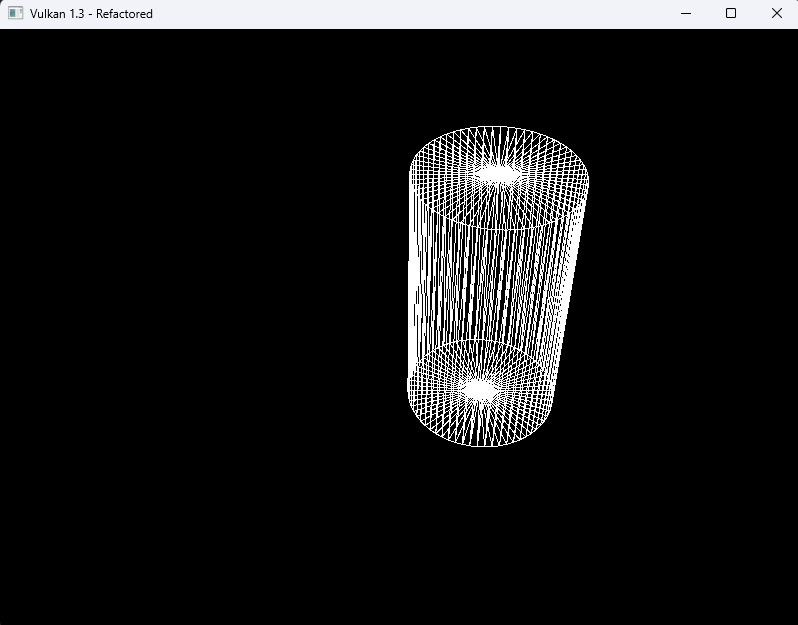
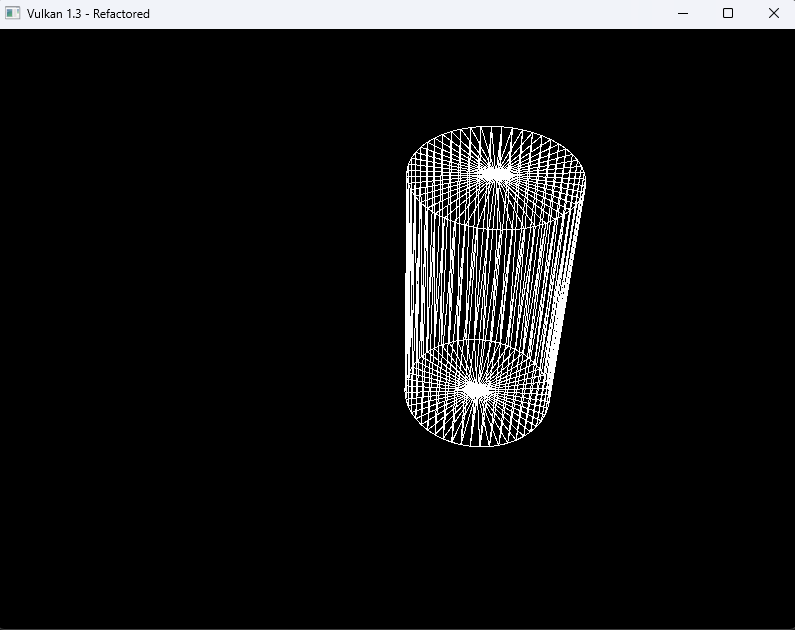
q3 code done, just need to write reflections

diff --git a/Lab_Tutorial_Template.cpp b/Lab_Tutorial_Template.cpp
@@ -233,29 +233,17 @@ static void createTerrain(
 }
 
 
-// Detailed cylinder using multiple triangle strips + primitive restart.
-// Params:
-//  segments  : slices around Y
-//  stacks    : vertical subdivisions of the side (>=1)
-//  capRings  : number of radial rings on each cap (>=1, outer ring included)
-// Vertex layout: side rings first (stacks+1)*segments,
-// then top cap rings (center + capRings rings),
-// then bottom cap rings (center + capRings rings).
-static void createCylinderStripDetailed(
-    float radiusTop,
-    float radiusBottom,
+// Triangle-strip cylinder using primitive restart, caps + wall.
+static void createCylinder(
+    float radius,
     float height,
     uint32_t segments,
-    uint32_t stacks,
-    uint32_t capRings,
-    const glm::vec3& colorTop,
     const glm::vec3& colorBottom,
+    const glm::vec3& colorTop,
     std::vector<Vertex>& outVertices,
     std::vector<uint32_t>& outIndices)
 {
     if (segments < 3) segments = 3;
-    if (stacks   < 1) stacks   = 1;
-    if (capRings < 1) capRings = 1;
 
     outVertices.clear();
     outIndices.clear();
@@ -265,100 +253,58 @@ static void createCylinderStripDetailed(
     const float TWO_PI = 6.28318530718f;
     const uint32_t RESTART = 0xFFFFFFFFu;
 
-    auto angle = [&](uint32_t i){ return TWO_PI * (float)i / (float)segments; };
-
-    // ---- Side rings (stacks+1)
-    // Each ring: segments vertices
-    for (uint32_t s = 0; s <= stacks; ++s) {
-        float t = float(s) / float(stacks);
-        float y  = glm::mix(y0, y1, t);
-        float r  = glm::mix(radiusBottom, radiusTop, t);
-        glm::vec3 col = glm::mix(colorBottom, colorTop, t);
-        for (uint32_t i = 0; i < segments; ++i) {
-            float a = angle(i);
-            outVertices.push_back({ glm::vec3(r * std::cos(a), y, r * std::sin(a)), col });
-        }
-    }
-
-    uint32_t sideBase     = 0;
-    uint32_t sideRingCount= stacks + 1;
-    uint32_t sideVertCount= sideRingCount * segments;
-
-    // ---- Top cap rings (center + capRings rings)
-    uint32_t topCapBase = sideVertCount;
-    // center replicated 'segments' times so it can act like a degenerate ring enabling a clean strip
+    // Interleave bottom/top ring vertices 
     for (uint32_t i = 0; i < segments; ++i) {
-        outVertices.push_back({ glm::vec3(0.f, y1, 0.f), colorTop });
+        float a = TWO_PI * (float)i / (float)segments;
+        float c = std::cos(a), s = std::sin(a);
+        outVertices.push_back({ glm::vec3(radius * c, y0, radius * s), colorBottom });
+        outVertices.push_back({ glm::vec3(radius * c, y1, radius * s), colorTop });
     }
-    for (uint32_t ring = 1; ring <= capRings; ++ring) {
-        float rr = radiusTop * (float(ring) / float(capRings));
-        for (uint32_t i = 0; i < segments; ++i) {
-            float a = angle(i);
-            outVertices.push_back({ glm::vec3(rr * std::cos(a), y1, rr * std::sin(a)), colorTop });
-        }
-    }
-    uint32_t topRingCount = capRings + 1; // including degenerate center ring
-    uint32_t topVertCount = topRingCount * segments;
 
-    // ---- Bottom cap rings
-    uint32_t bottomCapBase = sideVertCount + topVertCount;
+    // Add centers
+    uint32_t bottomCenter = UINT32_MAX;
+    uint32_t topCenter = UINT32_MAX;
+
+    bottomCenter = (uint32_t)outVertices.size();
+    outVertices.push_back({ glm::vec3(0.f, y0, 0.f), colorBottom });
+
+
+    topCenter = (uint32_t)outVertices.size();
+    outVertices.push_back({ glm::vec3(0.f, y1, 0.f), colorTop });
+
+    auto idxB = [&](uint32_t i) { return 2u * (i % segments) + 0u; };
+    auto idxT = [&](uint32_t i) { return 2u * (i % segments) + 1u; };
+
+
     for (uint32_t i = 0; i < segments; ++i) {
-        outVertices.push_back({ glm::vec3(0.f, y0, 0.f), colorBottom });
-    }
-    for (uint32_t ring = 1; ring <= capRings; ++ring) {
-        float rr = radiusBottom * (float(ring) / float(capRings));
-        for (uint32_t i = 0; i < segments; ++i) {
-            float a = angle(i);
-            outVertices.push_back({ glm::vec3(rr * std::cos(a), y0, rr * std::sin(a)), colorBottom });
-        }
-    }
-    uint32_t bottomRingCount = capRings + 1;
-    // uint32_t bottomVertCount = bottomRingCount * segments;
-
-    // Helpers to index a ring vertex
-    auto ringVertex = [&](uint32_t base, uint32_t ring, uint32_t slice){
-        return base + ring * segments + (slice % segments);
-    };
-
-    // ---- Bottom cap bands (from center ring 0 outwards)
-    for (uint32_t ring = 0; ring < bottomRingCount - 1; ++ring) {
-        for (uint32_t i = 0; i <= segments; ++i) {
-            outIndices.push_back(ringVertex(bottomCapBase, ring,     i));
-            outIndices.push_back(ringVertex(bottomCapBase, ring+1,   i));
-        }
+        outIndices.push_back(bottomCenter);
+        outIndices.push_back(idxB(i));
+        outIndices.push_back(idxB(i + 1));
         outIndices.push_back(RESTART);
     }
 
-    // ---- Side bands (stack strips)
-    for (uint32_t s = 0; s < stacks; ++s) {
-        for (uint32_t i = 0; i <= segments; ++i) {
-            outIndices.push_back(ringVertex(sideBase, s,     i));
-            outIndices.push_back(ringVertex(sideBase, s+1,   i));
-        }
-        outIndices.push_back(RESTART);
+    // Wall
+    for (uint32_t i = 0; i <= segments; ++i) {
+        outIndices.push_back(idxB(i));
+        outIndices.push_back(idxT(i));
     }
+    outIndices.push_back(RESTART);
 
-    // ---- Top cap bands
-    for (uint32_t ring = 0; ring < topRingCount - 1; ++ring) {
-        for (uint32_t i = 0; i <= segments; ++i) {
-            outIndices.push_back(ringVertex(topCapBase, ring,     i));
-            outIndices.push_back(ringVertex(topCapBase, ring+1,   i));
-        }
+    for (uint32_t i = 0; i < segments; ++i) {
+        outIndices.push_back(topCenter);
+        outIndices.push_back(idxT(i));
+        outIndices.push_back(idxT(i + 1));
         outIndices.push_back(RESTART);
     }
 }
 
-// Replace loadModel to use the detailed multi-strip version.
 void loadModel() {
-    createCylinderStripDetailed(
-        /*radiusTop    */ 1.0f,
-        /*radiusBottom */ 1.0f,
-        /*height       */ 2.0f,
-        /*segments     */ 36,   // around
-        /*stacks       */ 24,   // vertical subdivisions
-        /*capRings     */ 12,   // radial rings on caps
-        /*colorTop     */ glm::vec3(1,0,0),
-        /*colorBottom  */ glm::vec3(1,0,0),
+    createCylinder(
+        1.0f,
+        2.0f,
+        6,
+        glm::vec3(1, 1, 1),
+         glm::vec3(1, 1, 1),
         vertices, indices
     );
 }

diff --git a/Week_3/lab_book.md b/Week_3/lab_book.md
@@ -175,14 +175,93 @@ But once I understood the concept, it was straightforward to integrate it into t
 **Solution:**
 
 ```c++
+static void createCylinder(
+    float radius,
+    float height,
+    uint32_t segments,
+    const glm::vec3& colorBottom,
+    const glm::vec3& colorTop,
+    std::vector<Vertex>& outVertices,
+    std::vector<uint32_t>& outIndices)
+{
+    if (segments < 3) segments = 3;
+
+    outVertices.clear();
+    outIndices.clear();
+
+    const float y0 = -0.5f * height;
+    const float y1 = 0.5f * height;
+    const float TWO_PI = 6.28318530718f;
+    const uint32_t RESTART = 0xFFFFFFFFu;
+
+    // Interleave bottom/top ring vertices 
+    for (uint32_t i = 0; i < segments; ++i) {
+        float a = TWO_PI * (float)i / (float)segments;
+        float c = std::cos(a), s = std::sin(a);
+        outVertices.push_back({ glm::vec3(radius * c, y0, radius * s), colorBottom });
+        outVertices.push_back({ glm::vec3(radius * c, y1, radius * s), colorTop });
+    }
+
+    // Add centers
+    uint32_t bottomCenter = UINT32_MAX;
+    uint32_t topCenter = UINT32_MAX;
+
+    bottomCenter = (uint32_t)outVertices.size();
+    outVertices.push_back({ glm::vec3(0.f, y0, 0.f), colorBottom });
+
+
+    topCenter = (uint32_t)outVertices.size();
+    outVertices.push_back({ glm::vec3(0.f, y1, 0.f), colorTop });
+
+    auto idxB = [&](uint32_t i) { return 2u * (i % segments) + 0u; };
+    auto idxT = [&](uint32_t i) { return 2u * (i % segments) + 1u; };
+
+
+    for (uint32_t i = 0; i < segments; ++i) {
+        outIndices.push_back(bottomCenter);
+        outIndices.push_back(idxB(i));
+        outIndices.push_back(idxB(i + 1));
+        outIndices.push_back(RESTART);
+    }
+
+    // Wall
+    for (uint32_t i = 0; i <= segments; ++i) {
+        outIndices.push_back(idxB(i));
+        outIndices.push_back(idxT(i));
+    }
+    outIndices.push_back(RESTART);
+
+    for (uint32_t i = 0; i < segments; ++i) {
+        outIndices.push_back(topCenter);
+        outIndices.push_back(idxT(i));
+        outIndices.push_back(idxT(i + 1));
+        outIndices.push_back(RESTART);
+    }
+}
+
+void loadModel() {
+    createCylinder(
+        1.0f,
+        2.0f,
+        6,
+        glm::vec3(1, 1, 1),
+         glm::vec3(1, 1, 1),
+        vertices, indices
+    );
+}
 ```
 ```c++
     inputAssembly.topology = VK_PRIMITIVE_TOPOLOGY_TRIANGLE_STRIP;
     inputAssembly.primitiveRestartEnable = VK_TRUE;
 ```
 
-![](images/ex3.png)
+**Output:**
+1. Solid cylinder
+![](images/ex3_solid.png)
 
+2. Wireframe cylinder
+![](images/ex3_wireframe.png)
+1. 
 **Reflection:**
 changing the topology to triangle strip and enabling primitive restart was crucial for rendering the cylinder correctly. 
 as the cylinder has a lot of vertical lines, using triangle list would have required a lot of indices, making it inefficient.
